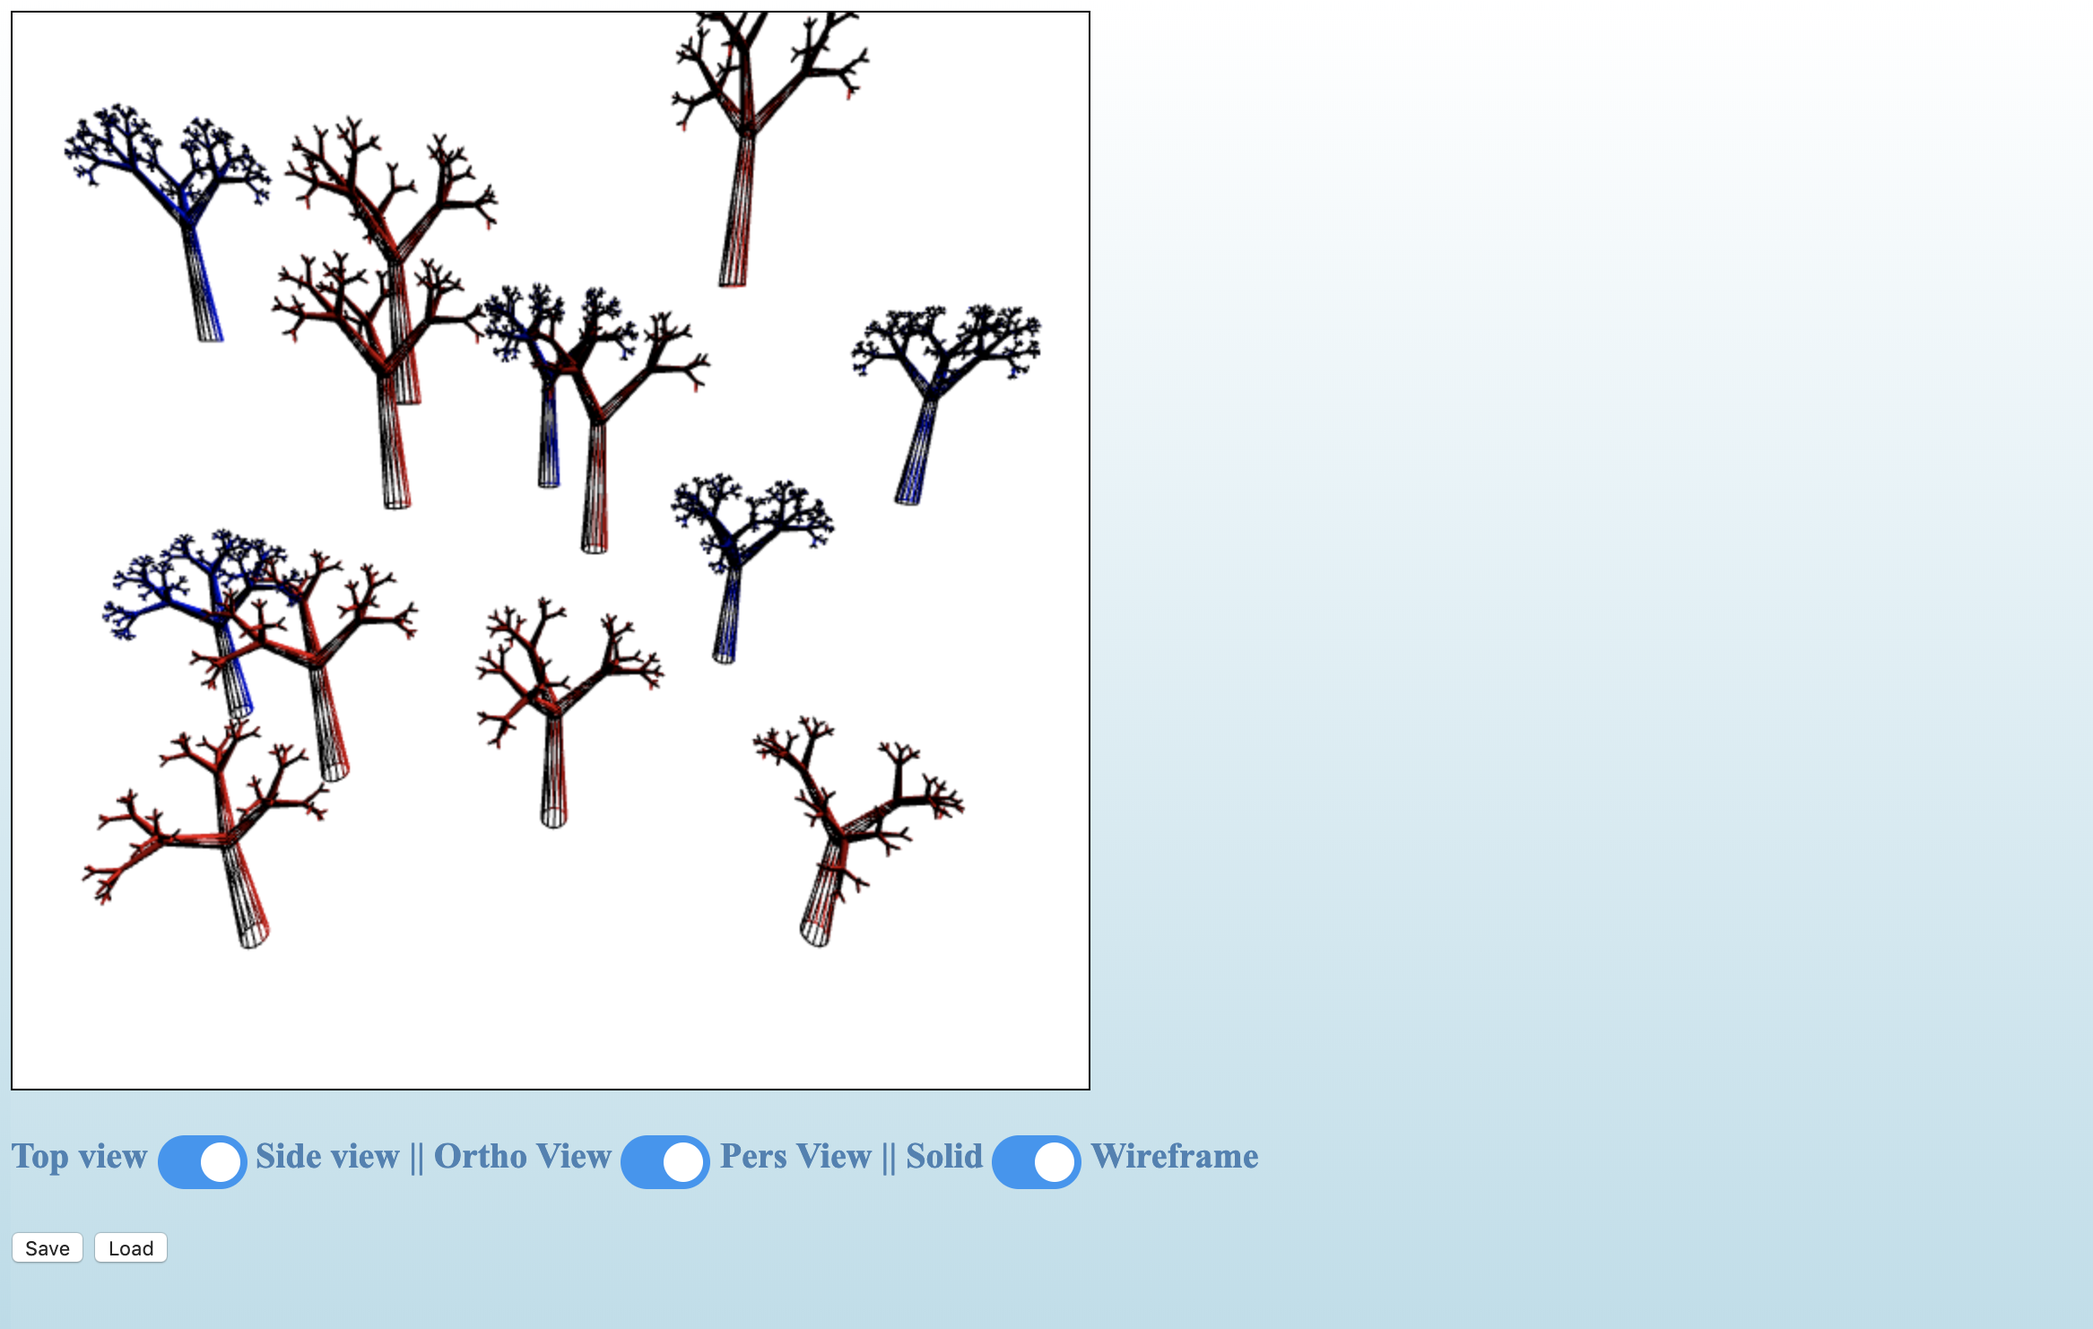
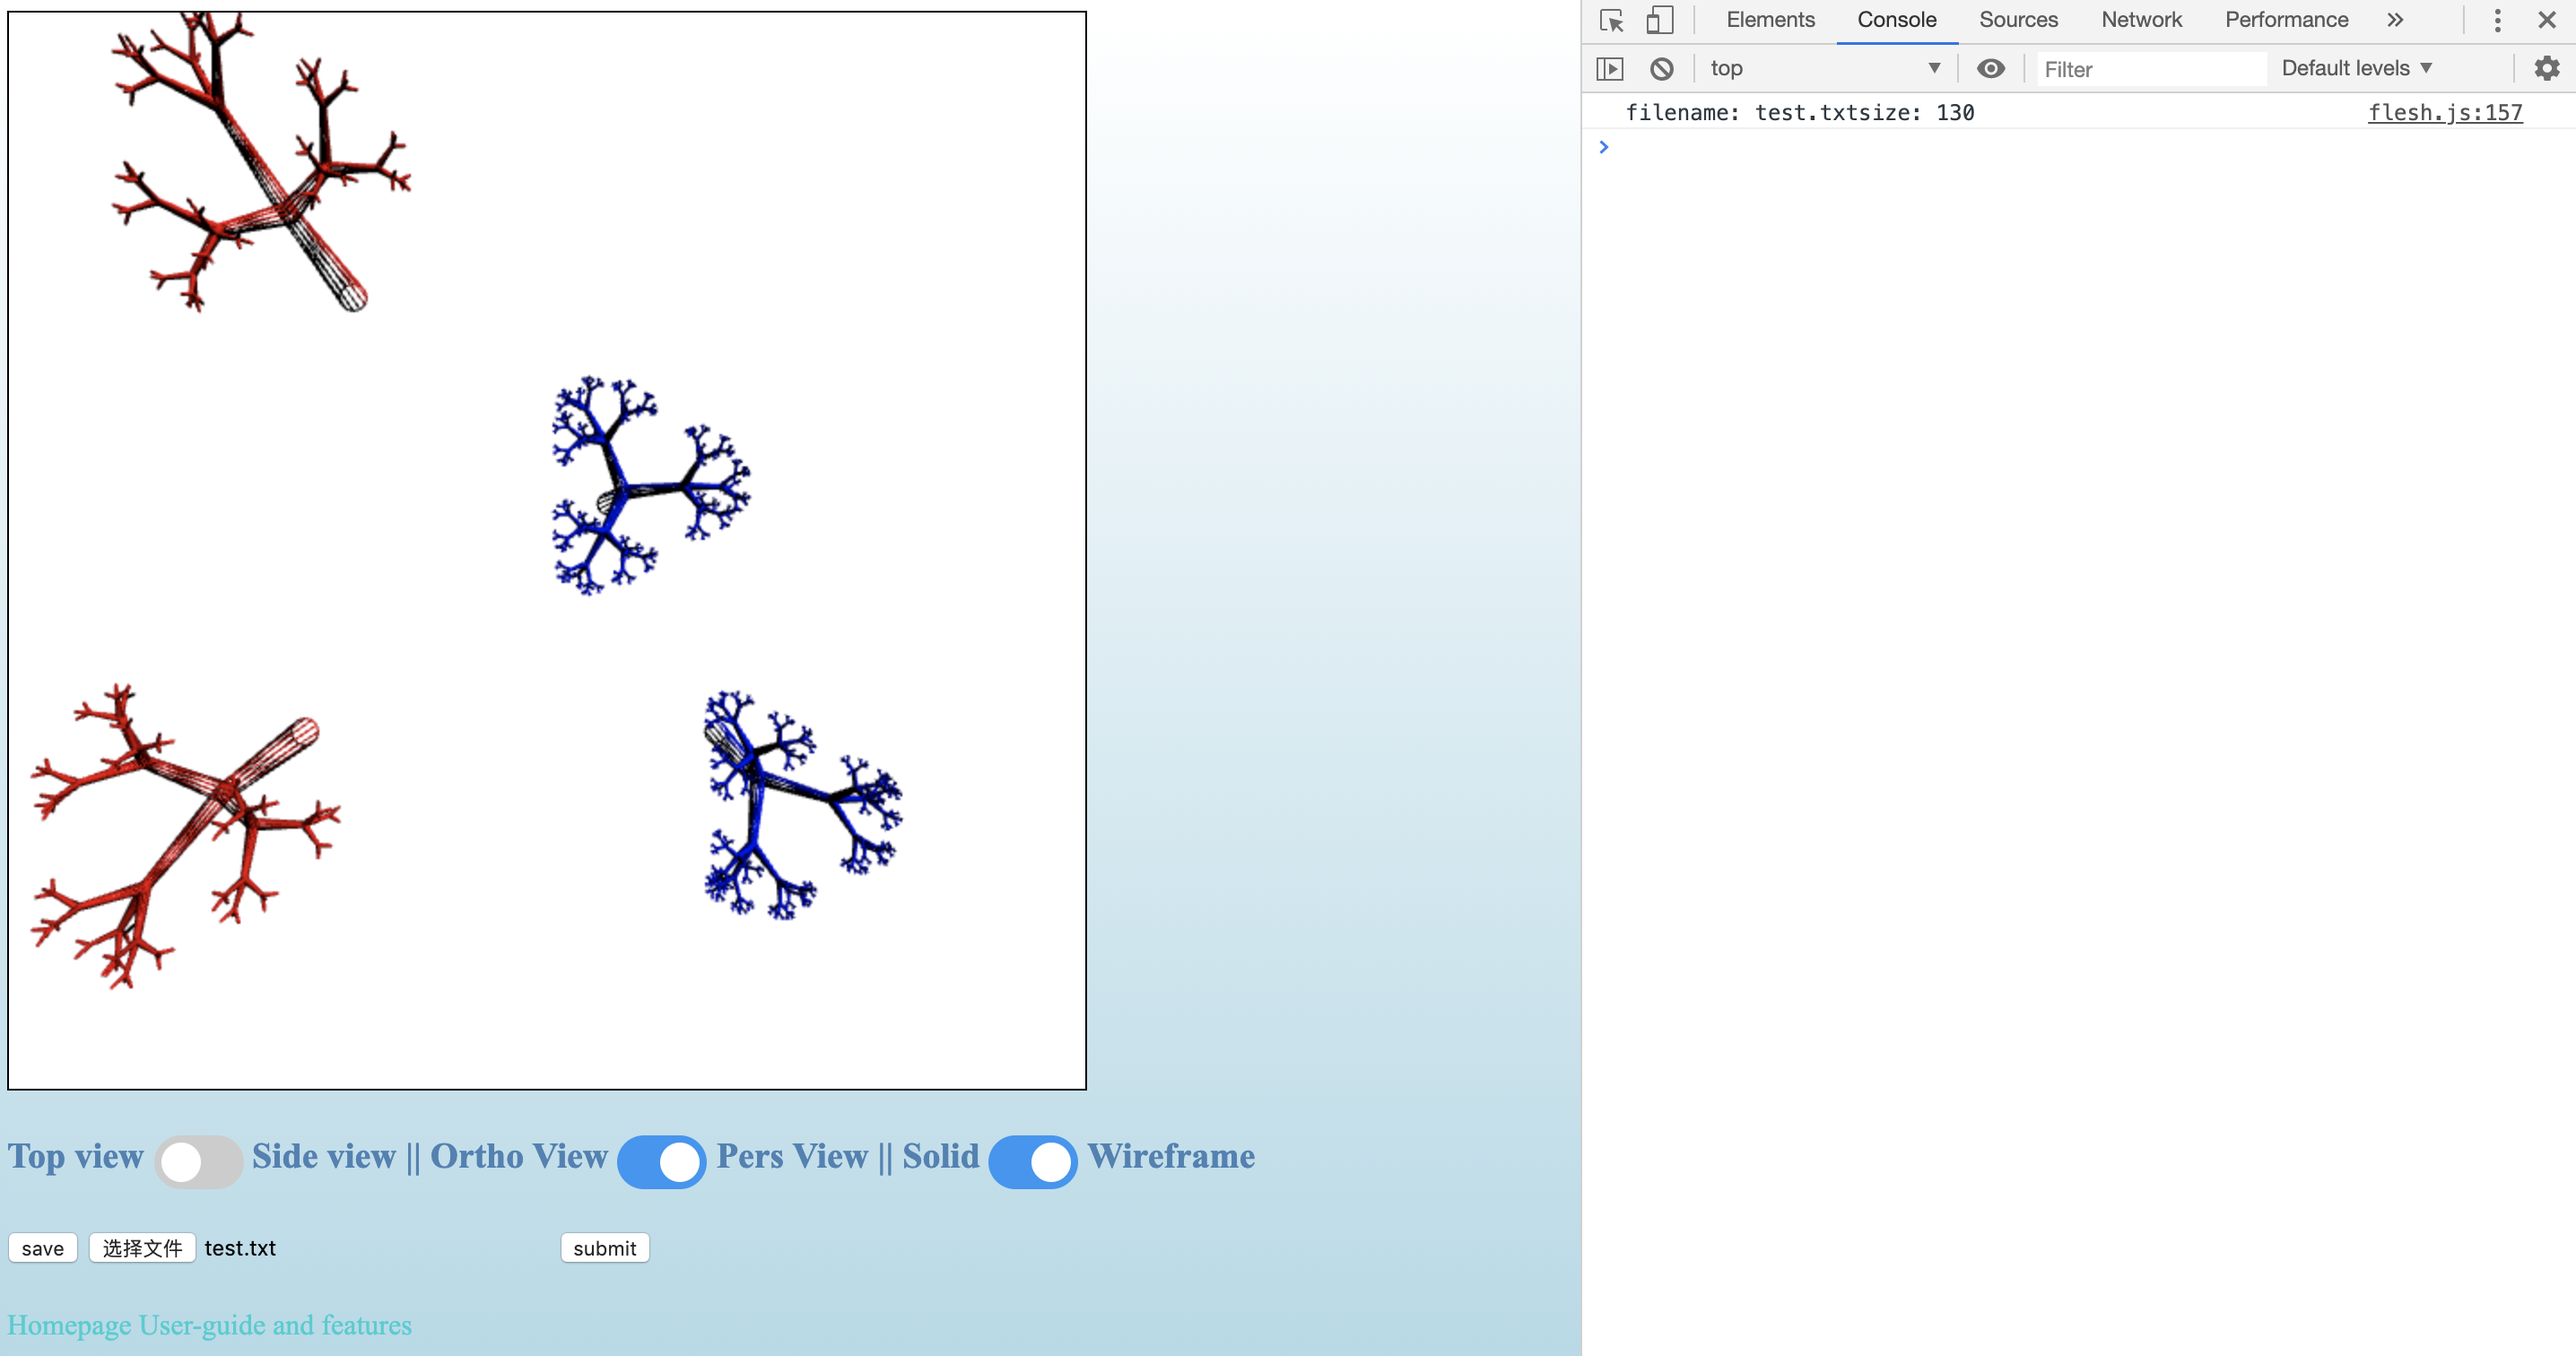
10/26/19

diff --git a/prog2/flesh.js b/prog2/flesh.js
@@ -29,10 +29,13 @@ var FSHADER_SOURCE =
     '  gl_FragColor = v_Color;\n' +
     '}\n';
 
-var Txl = [], Tyl = [];
-var Txr = [], Tyr = [];
-var countl = 0;
-var countr = 0;
+var Txl = [], Tyl = []; // (x, y) coordinates of a left click
+var Txr = [], Tyr = []; // (x, y) coordinates of a right click
+var countl = 0; // # of red trees
+var countr = 0; // # of blue trees
+// toggle1: 0 for top view, 1 for side view
+// toggle2: 0 for ortho view, 1 for pers view
+// toggle3: 0 for solid, 1 for wireframe
 var toggle1 = 0, toggle2 = 0, toggle3 = 0;
 function main() {
     // Retrieve <canvas> element
@@ -83,11 +86,9 @@ function main() {
         if (checkbox1.checked) {
             toggle1 = 1;
             setView(gl, cylinderProgram);
-            //setSideView(gl, cylinderProgram);
         } else {
             toggle1 = 0;
             setView(gl, cylinderProgram);
-            //setTopView(gl, cylinderProgram);
         }
     });
 
@@ -116,10 +117,33 @@ function main() {
     var submit = document.getElementById('submit');
     submit.addEventListener('click', function () {
         setView(gl, cylinderProgram);
+        // Change checkbox value based on the import
+        if(toggle1 == 0){
+            checkbox1.checked = false;
+        }else{
+            checkbox1.checked = true;
+        }
+        if(toggle2 == 0){
+            checkbox2.checked = false;
+        }else{
+            checkbox2.checked = true;
+        }
+        if(toggle3 == 0){
+            checkbox3.checked = false;
+        }else{
+            checkbox3.checked = true;
+        }
     });
 }
 
-// Save: refer to https://jsfiddle.net/4v26ebtp/
+/* save: refer to https://jsfiddle.net/4v26ebtp/
+ * 
+ * The basic thought is to store toggle1, toggle2, toggle3, Txl, Tyl, Txr, Tyr, countl, countr 
+ * (can refer to line 32~39 for what these values mean) to test.txt.
+ * For parsing convenience, the sequence of these values is set as:
+ * toggle1, toggle2, toggle3, countl, Txl, Tyl, countr, Txr, Tyr.
+ * In this way, when loading a scene, these values can be easily parsed and known.
+ */
 function fakeClick(obj) {
     var ev = document.createEvent("MouseEvents");
     ev.initMouseEvent("click", true, false, window, 0, 0, 0, 0, 0, false, false, false, false, 0, null);
@@ -190,13 +214,21 @@ function load() {
     };
 }
 
+/* setView
+ * input:
+ * gl, cylinderProgram
+ * output:
+ * none
+ * use:
+ * draw a whole scene
+ */
 function setView(gl, cylinderProgram) {
     // Specify the color for clearing <canvas>
     gl.clearColor(1.0, 1.0, 1.0, 1.0);
     gl.enable(gl.DEPTH_TEST);
     // Clear color and depth buffer
     gl.clear(gl.COLOR_BUFFER_BIT | gl.DEPTH_BUFFER_BIT);
-    for (var i = 0; i < countl; i++) {
+    for (var i = 0; i < countl; i++) { // Draw red trees
         initPositions(gl, cylinderProgram, 0);
         initColors(gl, cylinderProgram, 0);
         initNormals(gl, cylinderProgram, 0);
@@ -205,14 +237,14 @@ function setView(gl, cylinderProgram) {
         initMatrix(gl, cylinderProgram, toggle1, toggle2);
         initTranslation(gl, cylinderProgram, Txl[i], Tyl[i], toggle2);
         var len = cylinderl.length / 3;
-        if (toggle3 == 0) {
+        if (toggle3 == 0) { // Flat shading
             gl.drawArrays(gl.TRIANGLES, 0, len);
         }
-        else {
+        else { // wireframe
             gl.drawArrays(gl.LINES, 0, len);
         }
     }
-    for (var i = 0; i < countr; i++) {
+    for (var i = 0; i < countr; i++) { // Draw blue trees
         initPositions(gl, cylinderProgram, 1);
         initColors(gl, cylinderProgram, 1);
         initNormals(gl, cylinderProgram, 1);
@@ -251,7 +283,8 @@ function click(ev, gl, canvas, cylinderProgram) {
 
 /* initPositions
  * input:
- * gl and cylinderProgram
+ * gl, cylinderProgram
+ * tag: 0 for left click, 1 for right click
  * output:
  * none
  * use:
@@ -292,6 +325,7 @@ function initPositions(gl, cylinderProgram, tag) {
 /* initColors
  * input:
  * gl, cylinderProgram
+ * tag: 0 for red tree, 1 for blue tree
  * output:
  * none
  * use:
@@ -310,6 +344,7 @@ function initColors(gl, cylinderProgram, tag) {
 /* initNormals
  * input:
  * gl, cylinderProgram
+ * tag: 0 for red tree, 1 for blue tree
  * output:
  * none
  * use:
@@ -382,10 +417,12 @@ function initLightDirection(gl, cylinderProgram) {
 /* initMatrix
  * input:
  * gl, cylinderProgram
+ * tag1: 0 for top view, 1 for side view
+ * tag2: 0 for ortho view, 1 for pers view
  * output:
  * none
  * use:
- * initialize u_ViewMatrx and u_ProjMatrix
+ * initialize u_mvpMatrix
  */
 function initMatrix(gl, cylinderProgram, tag1, tag2) {
     gl.useProgram(cylinderProgram);
@@ -420,10 +457,15 @@ function initMatrix(gl, cylinderProgram, tag1, tag2) {
  * input:
  * gl, cylinderProgram
  * (tx, ty): coordinates of your mouse click
+ * tag: 0 for ortho view, 1 for pers view
+ * 
+ * The tag here is to distinguish between ortho and pers view, for I find the (tx, ty) needed for them are different.
+ * I am confused, though, for I think for both views I should multiply the (tx, ty) by a scaling const, like 200.
+ * But the canvas shows that for ortho I do not need to do this. idk why:-)
  */
-function initTranslation(gl, cylinderProgram, tx, ty, toggle) {
+function initTranslation(gl, cylinderProgram, tx, ty, tag) {
     gl.useProgram(cylinderProgram);
-    if (toggle == 0) {
+    if (tag == 0) {
         gl.uniform4f(cylinderProgram.u_Translation, tx, ty, 0.0, 0.0);
     }
     else {

diff --git a/prog2/guide.html b/prog2/guide.html
@@ -67,8 +67,8 @@
             Click back and change the view back. The second toggle is to switch between orthographic view and perspective view. 
             The third toggle is to switch between flat shading and wireframe.
         </p>
-        <p>Click on the button "Save" to save your current work to file. 
-            Click on the "Load" to load a scene from file.
+        <p>Click on the first button to save your current work to file. 
+            Click on the second button to load a scene from file. Then click "submit" to see your previous work.
         </p>
         <h3>Thoughts</h3>
         <p>I calculate all the coordinates for a whole tree and it's normals and store them in the ./points.js, 

diff --git a/prog2/features.html b/prog2/features.html
@@ -58,7 +58,7 @@
         <h1>Name: Qiaowen Yang</h1>
         <h3>Login ID: qyang51</h3>
         <h3>#: prog2</h3>
-        <h3>Date: 10/25/19</h3>
+        <h3>Date: 10/26/19</h3>
         <a href="guide.html">User-guide and features<br><br></a>
         <a href="driver.html">My canvas</a>
     </div>
